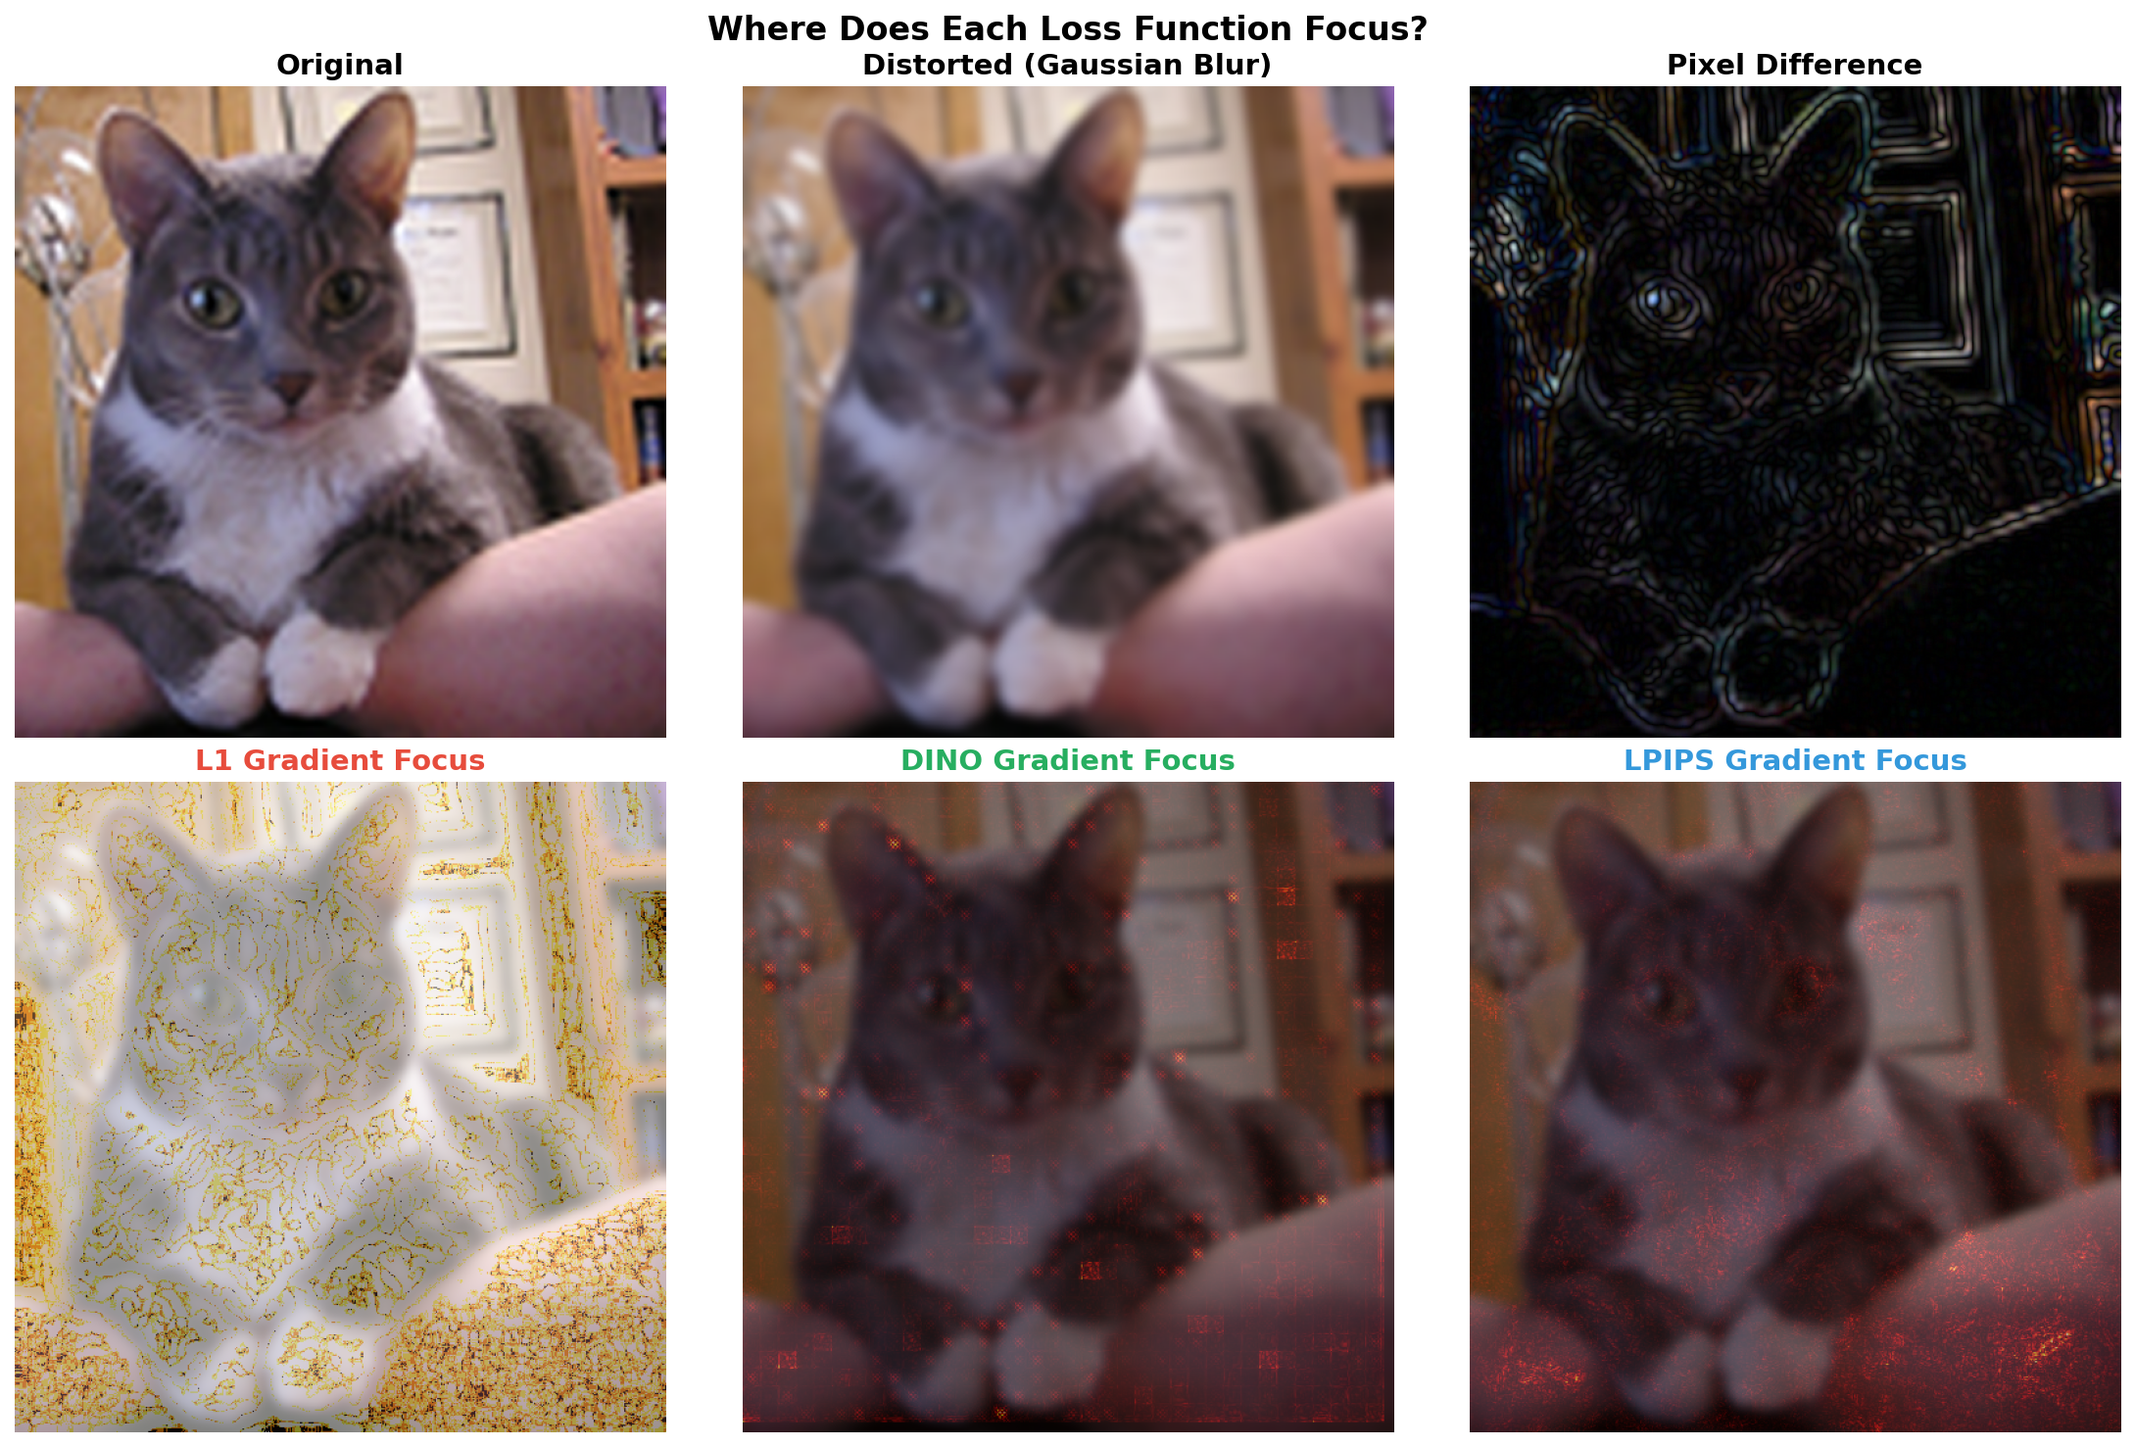
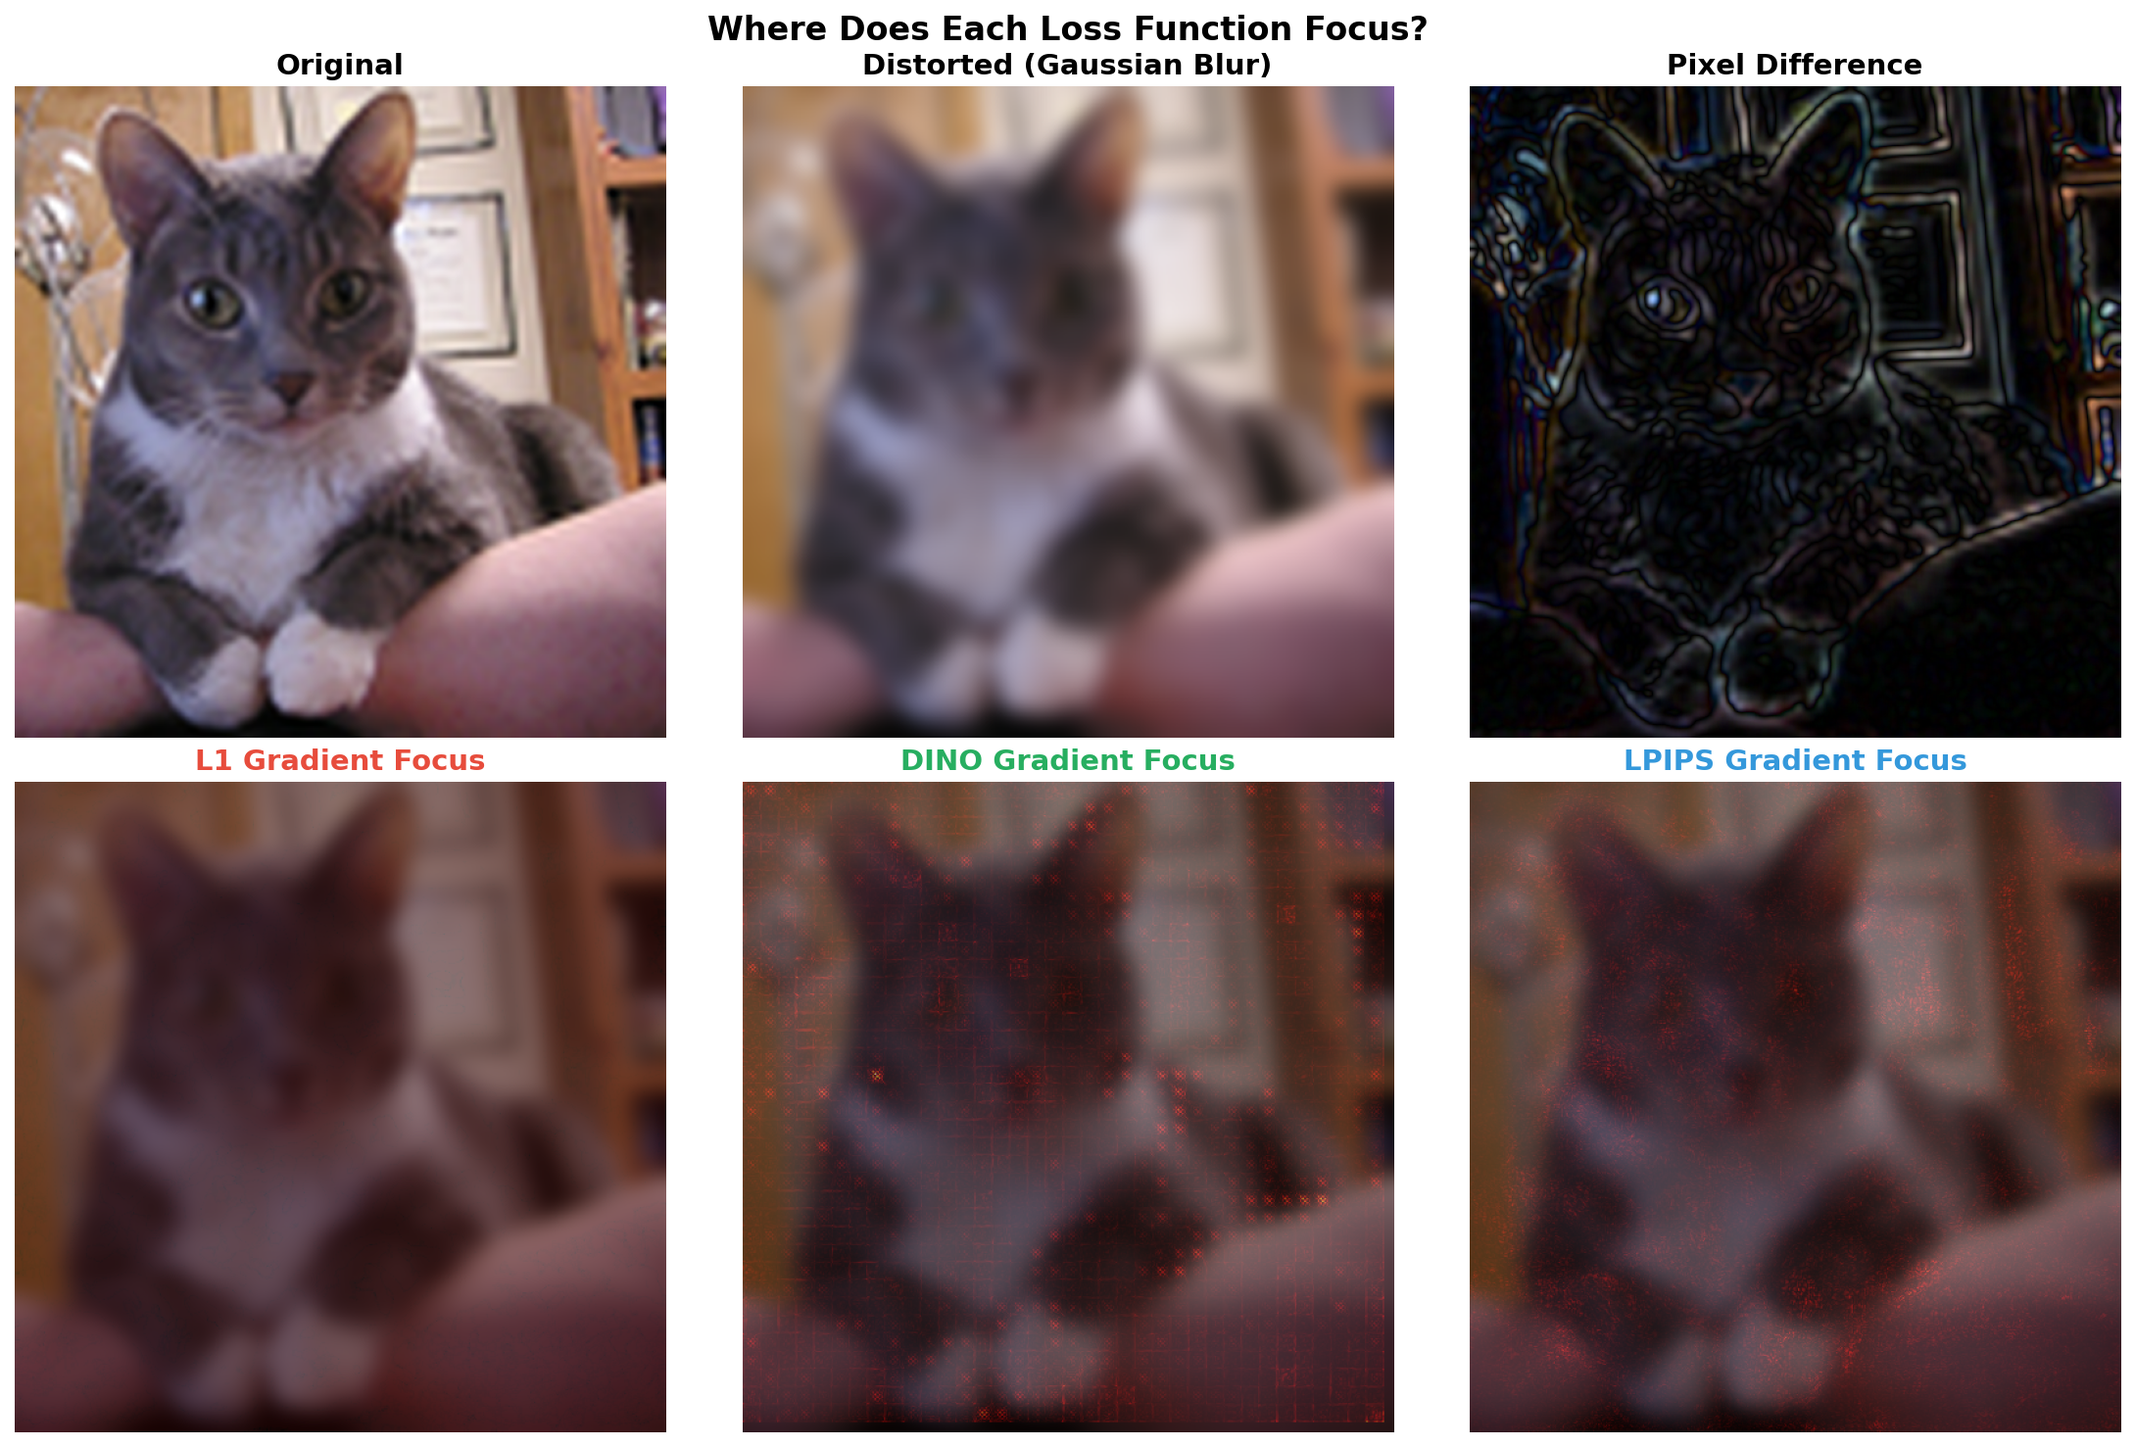
Update figures with normalized gradients and stronger distortions
- Tables now specify model: Td4-T/16×64 (4.5B parameters)
- Add SSIM metric to comparison tables
- Normalize all gradients to unit norm for fair comparison
- Strengthen distortions for better visibility (blur r=8, noise σ=40)
- Update figure captions and descriptions

diff --git a/docs/index.html b/docs/index.html
@@ -189,7 +189,7 @@
 
 <h2>Empirical Results</h2>
 
-<p>We ablated different loss configurations when training a vision transformer autoencoder (ViTok). All experiments use the same Td4-T architecture with Charbonnier pixel loss as the baseline:</p>
+<p>We ablated different loss configurations when training a <strong>4.5B parameter ViTok autoencoder</strong> (Td4-T/16&times;64: 16&times; spatial compression, 64 latent channels) on ImageNet. All experiments use Charbonnier pixel loss as the baseline:</p>
 
 <table>
     <thead>
@@ -203,31 +203,31 @@
     </thead>
     <tbody>
         <tr>
-            <td><em>Baseline (pixel only)</em></td>
+            <td><em>Pixel-only (Charbonnier)</em></td>
             <td>2.13</td>
             <td>6.96</td>
             <td class="best">34.31</td>
-            <td class="best">0.927</td>
+            <td class="best">0.925</td>
         </tr>
         <tr>
             <td>+ LPIPS (&lambda;=0.1)</td>
-            <td>0.72 <span class="better">(-1.41)</span></td>
-            <td>2.93 <span class="better">(-4.03)</span></td>
+            <td>0.72 <span class="better">(-66%)</span></td>
+            <td>2.93 <span class="better">(-58%)</span></td>
             <td>34.19</td>
             <td>0.923</td>
         </tr>
         <tr>
             <td>+ DINO (&lambda;=250)</td>
-            <td>0.51 <span class="better">(-1.62)</span></td>
-            <td>1.45 <span class="better">(-5.51)</span></td>
+            <td>0.51 <span class="better">(-76%)</span></td>
+            <td>1.45 <span class="better">(-79%)</span></td>
             <td>33.93</td>
             <td>0.919</td>
         </tr>
         <tr style="background: #f0fdf4;">
             <td><strong>+ DINO (&lambda;=1000)</strong></td>
-            <td class="best"><strong>0.30</strong> <span class="better">(-1.83)</span></td>
-            <td class="best"><strong>1.12</strong> <span class="better">(-5.84)</span></td>
-            <td>33.64 <span class="worse">(-0.67)</span></td>
+            <td class="best"><strong>0.30</strong> <span class="better">(-86%)</span></td>
+            <td class="best"><strong>1.12</strong> <span class="better">(-84%)</span></td>
+            <td>33.64 <span class="worse">(-0.67 dB)</span></td>
             <td>0.914</td>
         </tr>
     </tbody>
@@ -235,8 +235,9 @@
 
 <p><strong>Key observations:</strong></p>
 <ul style="margin: 1rem 0 1rem 1.5rem;">
-    <li>DINO achieves <strong>7x better rFID</strong> (0.30 vs 2.13) compared to pixel-only</li>
-    <li>DINO achieves <strong>2x better rFID</strong> than LPIPS (0.30 vs 0.72)</li>
+    <li>DINO achieves <strong>7&times; better rFID</strong> (0.30 vs 2.13) compared to pixel-only</li>
+    <li>DINO achieves <strong>6&times; better rFDD</strong> (1.12 vs 6.96) compared to pixel-only</li>
+    <li>DINO achieves <strong>2&times; better</strong> perceptual metrics than LPIPS</li>
     <li>The cost is only 0.67 dB PSNR&mdash;invisible to human perception</li>
     <li>Higher DINO weight trades more PSNR for better perceptual metrics</li>
 </ul>

diff --git a/examples/figures/fig_distortions.py b/examples/figures/fig_distortions.py
@@ -52,31 +52,31 @@ def generate_figure():
 
     original_t = pil_to_tensor(original_pil).unsqueeze(0).to(device)
 
-    def apply_jpeg(img, quality=10):
-        """Apply JPEG compression."""
+    def apply_jpeg(img, quality=5):
+        """Apply strong JPEG compression."""
         buf = io.BytesIO()
         img.save(buf, format="JPEG", quality=quality)
         buf.seek(0)
         return Image.open(buf).convert("RGB")
 
-    def apply_color_shift(img, shift=30):
-        """Apply color channel shift."""
+    def apply_color_shift(img, shift=50):
+        """Apply strong color channel shift."""
         arr = np.array(img).astype(float)
         arr[:, :, 0] = np.clip(arr[:, :, 0] + shift, 0, 255)  # Red shift
         arr[:, :, 2] = np.clip(arr[:, :, 2] - shift, 0, 255)  # Blue shift
         return Image.fromarray(arr.astype(np.uint8))
 
-    # Create different distortions
+    # Create different distortions (stronger for visibility)
     distortions = {
-        "Blur": original_pil.filter(ImageFilter.GaussianBlur(radius=4)),
+        "Blur": original_pil.filter(ImageFilter.GaussianBlur(radius=8)),  # Stronger blur
         "Noise": Image.fromarray(
             np.clip(
-                np.array(original_pil).astype(float) + np.random.normal(0, 25, original_pil.size[::-1] + (3,)),
+                np.array(original_pil).astype(float) + np.random.normal(0, 40, original_pil.size[::-1] + (3,)),  # More noise
                 0, 255
             ).astype(np.uint8)
         ),
-        "JPEG": apply_jpeg(original_pil, quality=10),
-        "Color": apply_color_shift(original_pil, shift=30),
+        "JPEG": apply_jpeg(original_pil, quality=5),  # Lower quality
+        "Color": apply_color_shift(original_pil, shift=50),  # Stronger shift
     }
 
     def get_gradient(loss_fn, x, ref, is_l1=False):
@@ -86,41 +86,57 @@ def generate_figure():
         else:
             loss = loss_fn(x, ref).mean()
         loss.backward()
-        return x.grad.detach()
+        grad = x.grad.detach()
+        # Normalize gradient to unit norm (all gradients on same scale)
+        grad_norm = torch.linalg.vector_norm(grad)
+        return grad / (grad_norm + 1e-8)
 
     def grad_to_heatmap(grad):
         mag = torch.sqrt((grad ** 2).sum(dim=1)).squeeze().cpu().numpy()
-        return mag / (mag.max() + 1e-8)
+        return mag  # Return raw magnitude, we'll normalize across all later
 
     # Create figure: 4 distortions x 4 columns (distorted, L1, DINO, LPIPS)
     fig, axes = plt.subplots(4, 4, figsize=(14, 14))
 
-    for row, (dist_name, dist_pil) in enumerate(distortions.items()):
+    # First pass: compute all gradients and find global max for normalization
+    all_grads = []
+    for dist_name, dist_pil in distortions.items():
         dist_t = pil_to_tensor(dist_pil).unsqueeze(0).to(device)
-
-        # Compute gradients
         l1_grad = get_gradient(None, dist_t, original_t, is_l1=True)
         dino_grad = get_gradient(dino, dist_t, original_t)
         lpips_grad = get_gradient(lpips_fn, dist_t, original_t)
+        all_grads.append((dist_name, dist_pil, l1_grad, dino_grad, lpips_grad))
 
+    # Find global max across all gradient heatmaps
+    global_max = 0
+    for _, _, l1_grad, dino_grad, lpips_grad in all_grads:
+        for grad in [l1_grad, dino_grad, lpips_grad]:
+            mag = grad_to_heatmap(grad)
+            global_max = max(global_max, mag.max())
+
+    # Second pass: plot with consistent normalization
+    for row, (dist_name, dist_pil, l1_grad, dino_grad, lpips_grad) in enumerate(all_grads):
         # Column 0: Distorted image
         axes[row, 0].imshow(dist_pil)
-        axes[row, 0].set_title(f"{dist_name}" if row == 0 else "", fontsize=11)
+        axes[row, 0].set_title("Distorted" if row == 0 else "", fontsize=11)
         axes[row, 0].set_ylabel(dist_name, fontsize=11, rotation=0, ha="right", va="center")
         axes[row, 0].axis("off")
 
-        # Column 1: L1 gradient
-        axes[row, 1].imshow(grad_to_heatmap(l1_grad), cmap="inferno")
+        # Column 1: L1 gradient (normalized to global scale)
+        l1_mag = grad_to_heatmap(l1_grad) / global_max
+        axes[row, 1].imshow(l1_mag, cmap="inferno", vmin=0, vmax=1)
         axes[row, 1].set_title("L1 Gradient" if row == 0 else "", fontsize=11, color="#3498db")
         axes[row, 1].axis("off")
 
         # Column 2: DINO gradient
-        axes[row, 2].imshow(grad_to_heatmap(dino_grad), cmap="inferno")
+        dino_mag = grad_to_heatmap(dino_grad) / global_max
+        axes[row, 2].imshow(dino_mag, cmap="inferno", vmin=0, vmax=1)
         axes[row, 2].set_title("DINO Gradient" if row == 0 else "", fontsize=11, color="#2ecc71")
         axes[row, 2].axis("off")
 
         # Column 3: LPIPS gradient
-        axes[row, 3].imshow(grad_to_heatmap(lpips_grad), cmap="inferno")
+        lpips_mag = grad_to_heatmap(lpips_grad) / global_max
+        axes[row, 3].imshow(lpips_mag, cmap="inferno", vmin=0, vmax=1)
         axes[row, 3].set_title("LPIPS Gradient" if row == 0 else "", fontsize=11, color="#e74c3c")
         axes[row, 3].axis("off")
 

diff --git a/examples/figures/fig_gradient_overlay.py b/examples/figures/fig_gradient_overlay.py
@@ -48,8 +48,8 @@ def generate_figure():
             original_pil = img.resize((512, 512), Image.LANCZOS)
             break
 
-    # Create distorted version (blur)
-    distorted_pil = original_pil.filter(ImageFilter.GaussianBlur(radius=4))
+    # Create distorted version (strong blur for visibility)
+    distorted_pil = original_pil.filter(ImageFilter.GaussianBlur(radius=8))
 
     def pil_to_tensor(img):
         return torch.from_numpy(np.array(img)).permute(2, 0, 1).float() / 127.5 - 1
@@ -64,16 +64,25 @@ def generate_figure():
         else:
             loss = loss_fn(x, ref).mean()
         loss.backward()
-        return x.grad.detach()
+        grad = x.grad.detach()
+        # Normalize gradient to unit norm (all on same scale)
+        grad_norm = torch.linalg.vector_norm(grad)
+        return grad / (grad_norm + 1e-8)
 
-    # Compute gradients
+    # Compute gradients (all normalized to same scale)
     l1_grad = get_gradient(None, distorted_t, original_t, is_l1=True)
     dino_grad = get_gradient(dino, distorted_t, original_t)
     lpips_grad = get_gradient(lpips_fn, distorted_t, original_t)
 
     def grad_to_heatmap(grad):
         mag = torch.sqrt((grad ** 2).sum(dim=1)).squeeze().cpu().numpy()
-        return mag / (mag.max() + 1e-8)
+        return mag
+
+    # Get magnitudes and shared max for consistent scale
+    l1_mag = grad_to_heatmap(l1_grad)
+    dino_mag = grad_to_heatmap(dino_grad)
+    lpips_mag = grad_to_heatmap(lpips_grad)
+    shared_max = max(l1_mag.max(), dino_mag.max(), lpips_mag.max())
 
     def overlay_heatmap(img_arr, heatmap, alpha=0.6, cmap_name="hot"):
         """Overlay heatmap on image."""
@@ -103,18 +112,18 @@ def generate_figure():
     axes[0, 2].set_title("Pixel Difference", fontsize=14, fontweight="bold")
     axes[0, 2].axis("off")
 
-    # Bottom row: Gradient overlays
-    l1_overlay = overlay_heatmap(distorted_arr, grad_to_heatmap(l1_grad), alpha=0.5)
+    # Bottom row: Gradient overlays (all normalized to same scale)
+    l1_overlay = overlay_heatmap(distorted_arr, l1_mag / shared_max, alpha=0.5)
     axes[1, 0].imshow(l1_overlay)
     axes[1, 0].set_title("L1 Gradient Focus", fontsize=14, fontweight="bold", color="#e74c3c")
     axes[1, 0].axis("off")
 
-    dino_overlay = overlay_heatmap(distorted_arr, grad_to_heatmap(dino_grad), alpha=0.5)
+    dino_overlay = overlay_heatmap(distorted_arr, dino_mag / shared_max, alpha=0.5)
     axes[1, 1].imshow(dino_overlay)
     axes[1, 1].set_title("DINO Gradient Focus", fontsize=14, fontweight="bold", color="#27ae60")
     axes[1, 1].axis("off")
 
-    lpips_overlay = overlay_heatmap(distorted_arr, grad_to_heatmap(lpips_grad), alpha=0.5)
+    lpips_overlay = overlay_heatmap(distorted_arr, lpips_mag / shared_max, alpha=0.5)
     axes[1, 2].imshow(lpips_overlay)
     axes[1, 2].set_title("LPIPS Gradient Focus", fontsize=14, fontweight="bold", color="#3498db")
     axes[1, 2].axis("off")

diff --git a/examples/figures/fig_gradients.py b/examples/figures/fig_gradients.py
@@ -47,8 +47,8 @@ def generate_figure():
             original_pil = img.resize((512, 512), Image.LANCZOS)
             break
 
-    # Create distorted version (blur)
-    distorted_pil = original_pil.filter(ImageFilter.GaussianBlur(radius=4))
+    # Create distorted version (strong blur for visibility)
+    distorted_pil = original_pil.filter(ImageFilter.GaussianBlur(radius=8))
 
     def pil_to_tensor(img):
         return torch.from_numpy(np.array(img)).permute(2, 0, 1).float() / 127.5 - 1
@@ -63,16 +63,27 @@ def generate_figure():
         else:
             loss = loss_fn(x, ref).mean()
         loss.backward()
-        return x.grad.detach()
+        grad = x.grad.detach()
+        # Normalize gradient to unit norm (entire gradient normalized to scale 1)
+        grad_norm = torch.linalg.vector_norm(grad)
+        return grad / (grad_norm + 1e-8)
 
-    # Compute gradients
+    # Compute gradients (all normalized to same scale)
     l1_grad = get_gradient(None, distorted_t, original_t, is_l1=True)
     dino_grad = get_gradient(dino, distorted_t, original_t)
     lpips_grad = get_gradient(lpips_fn, distorted_t, original_t)
 
-    def grad_to_heatmap(grad):
+    def grad_to_heatmap(grad, shared_max=None):
         mag = torch.sqrt((grad ** 2).sum(dim=1)).squeeze().cpu().numpy()
+        if shared_max is not None:
+            return mag / (shared_max + 1e-8)
         return mag / (mag.max() + 1e-8)
+
+    # Get shared max for consistent colormap across all gradients
+    l1_mag = torch.sqrt((l1_grad ** 2).sum(dim=1)).squeeze().cpu().numpy()
+    dino_mag = torch.sqrt((dino_grad ** 2).sum(dim=1)).squeeze().cpu().numpy()
+    lpips_mag = torch.sqrt((lpips_grad ** 2).sum(dim=1)).squeeze().cpu().numpy()
+    shared_max = max(l1_mag.max(), dino_mag.max(), lpips_mag.max())
 
     # Create figure
     fig, axes = plt.subplots(2, 3, figsize=(12, 8))
@@ -93,16 +104,16 @@ def generate_figure():
     axes[0, 2].set_title("Pixel Difference", fontsize=12)
     axes[0, 2].axis("off")
 
-    # Bottom row: gradients
-    axes[1, 0].imshow(grad_to_heatmap(l1_grad), cmap="inferno")
+    # Bottom row: gradients (all using same scale for fair comparison)
+    axes[1, 0].imshow(l1_mag / shared_max, cmap="inferno", vmin=0, vmax=1)
     axes[1, 0].set_title("L1 Gradient", fontsize=12, color="#3498db")
     axes[1, 0].axis("off")
 
-    axes[1, 1].imshow(grad_to_heatmap(dino_grad), cmap="inferno")
+    axes[1, 1].imshow(dino_mag / shared_max, cmap="inferno", vmin=0, vmax=1)
     axes[1, 1].set_title("DINO Gradient", fontsize=12, color="#2ecc71")
     axes[1, 1].axis("off")
 
-    axes[1, 2].imshow(grad_to_heatmap(lpips_grad), cmap="inferno")
+    axes[1, 2].imshow(lpips_mag / shared_max, cmap="inferno", vmin=0, vmax=1)
     axes[1, 2].set_title("LPIPS Gradient", fontsize=12, color="#e74c3c")
     axes[1, 2].axis("off")
 

diff --git a/README.md b/README.md
@@ -71,13 +71,16 @@ for images in dataloader:
 
 ## Why DINO over LPIPS?
 
-| Metric | Pixel-only | + LPIPS | + DINO |
-|--------|------------|---------|--------|
-| rFID | 2.13 | 0.72 | **0.30** |
-| rFDD | 6.96 | 2.93 | **1.12** |
-| PSNR | **34.31** | 34.19 | 33.64 |
+Results from training a 4.5B parameter ViTok autoencoder (Td4-T/16×64, 16× spatial compression, 64 latent channels) on ImageNet:
 
-DINO perceptual loss achieves **7x better rFID** and **6x better rFDD** compared to pixel-only training, and **2x better** than LPIPS, with only ~0.7 dB PSNR trade-off.
+| Metric | Pixel-only | + LPIPS (λ=0.1) | + DINO (λ=1000) |
+|--------|------------|-----------------|-----------------|
+| rFID ↓ | 2.13 | 0.72 | **0.30** |
+| rFDD ↓ | 6.96 | 2.93 | **1.12** |
+| PSNR ↑ | **34.31** | 34.19 | 33.64 |
+| SSIM ↑ | **0.925** | 0.923 | 0.914 |
+
+DINO perceptual loss achieves **7× better rFID** and **6× better rFDD** compared to pixel-only training, and **2× better** than LPIPS, with only ~0.7 dB PSNR trade-off (invisible to human perception).
 
 ## API Reference
 
